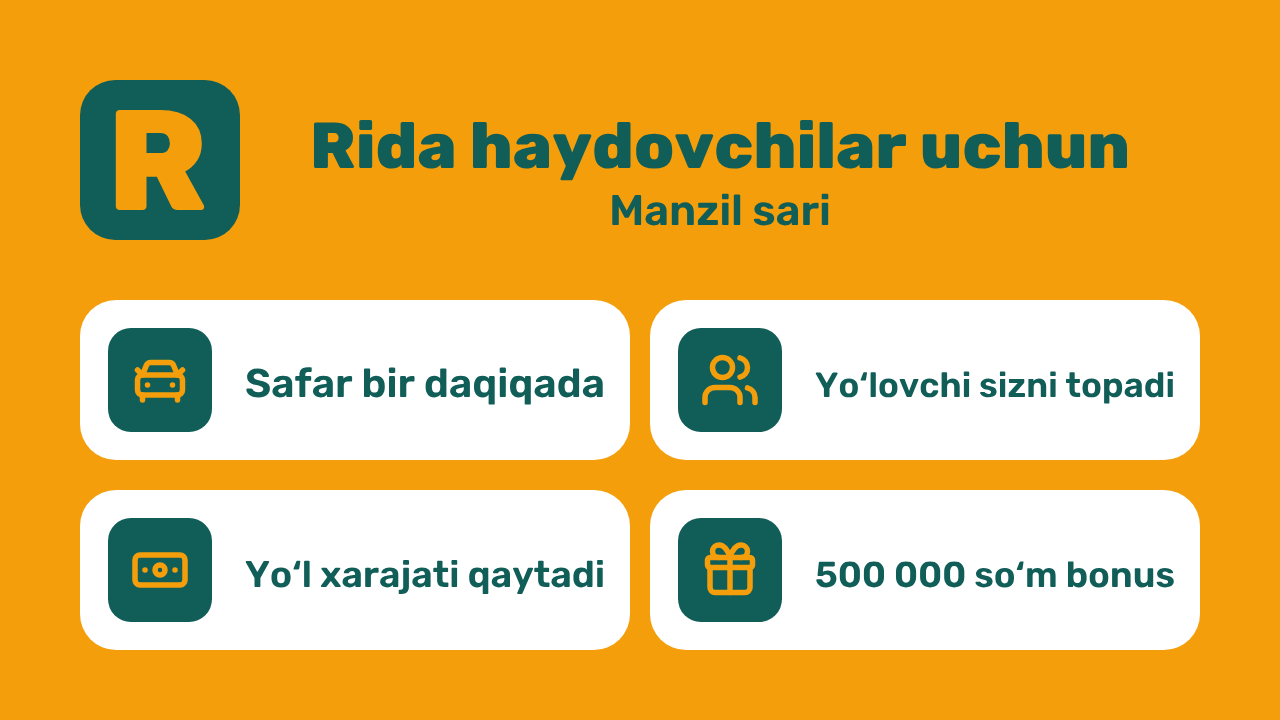
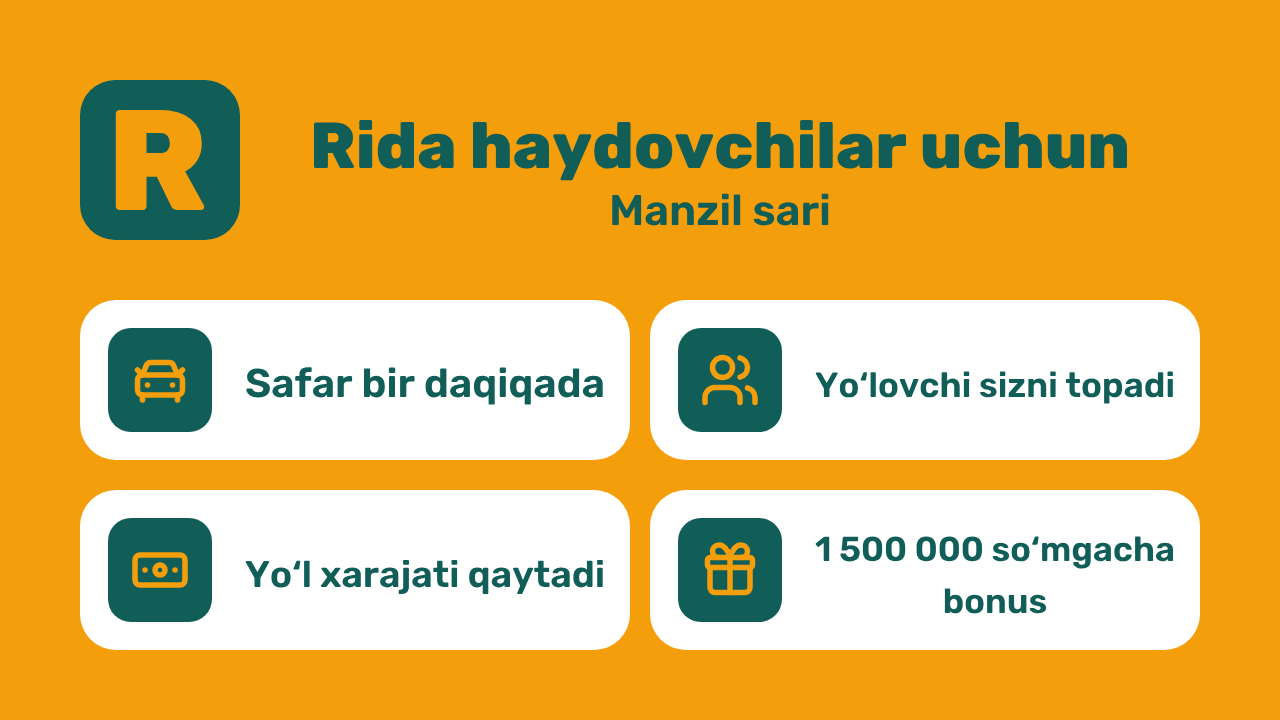
Приветствия ботов в каналах: пост попутчика и водителя в @rida1uz и всех каналах направлений (решение владельца 18.10.2026) (#278)
Бот каналов публикует приветствие попутчика и приветствие водителя: сначала @rida1uz, потом все 67 каналов направлений. Картинка и текст как после /start, кнопка «Ochish» в Mini App с меткой канала. Один раз, без звука, 12 постов за тик Cron; отказ 4xx повторяется через час; номер поста в channel_welcomes (миграция 0076). Бонус водителя «1 500 000 soʻmgacha» в /start, в посте и на картинке. Урок №321.

Claude-Session: https://claude.ai/code/session_017FSsNw3bjZgBbKY1ueaesh

Changed region(s): [[0.625, 0.7333, 0.9375, 0.8556]]

diff --git a/apps/backend/src/bots/channel-welcome.test.ts b/apps/backend/src/bots/channel-welcome.test.ts
@@ -1,0 +1,112 @@
+import { loadBrand } from '@platform/brands';
+import { botStartLink, channelVia, HOUR_MS } from '@platform/contracts';
+import { afterEach, describe, expect, it, vi } from 'vitest';
+import type { Bindings } from '../env';
+import { testD1 } from '../test-d1';
+import { postChannelWelcomes } from './channel-welcome';
+import { welcomeCaption, welcomePicture } from './start-reply';
+
+afterEach(() => vi.restoreAllMocks());
+
+const brand = loadBrand();
+const MAIN = `@${brand.mainChannel}`;
+const FIRST = brand.channels[0]?.chat ?? '';
+const ALL = 2 * (1 + brand.channels.length);
+const DAY = Date.UTC(2026, 9, 18, 6);
+
+type Post = {
+  chat_id: string;
+  photo: string;
+  caption: string;
+  disable_notification?: boolean;
+  reply_markup: { inline_keyboard: { text: string; url: string }[][] };
+};
+
+// Telegram that answers the chats of `answers` with their status, and 429 from the post number `busyAt`.
+function telegram(answers: Readonly<Record<string, number>> = {}, busyAt = Infinity) {
+  const posts: Post[] = [];
+  const fetch = async (_url: string, init?: RequestInit) => {
+    const post = JSON.parse(String(init?.body)) as Post;
+    posts.push(post);
+    const status = posts.length >= busyAt ? 429 : (answers[post.chat_id] ?? 200);
+    return Response.json({ ok: status === 200, result: { message_id: posts.length } }, { status });
+  };
+  return { posts, fetch, where: () => posts.map((post) => post.chat_id) };
+}
+
+const envWith = (values: object = {}) =>
+  ({ POSTER_BOT_TOKEN: 'c', CHANNEL_POSTS: 'on', DB: testD1(), ...values }) as unknown as Bindings;
+
+describe('the welcomes of the bots in the channels (owner, 18.10.2026)', () => {
+  it('posts both welcomes to the main channel first, then a few channels a tick, never twice', async () => {
+    const db = testD1();
+    const env = envWith({ DB: db });
+    const first = telegram();
+    await postChannelWelcomes(env, first.fetch, DAY);
+    const [passenger, driver] = first.posts;
+    expect(first.where().slice(0, 2)).toEqual([MAIN, MAIN]);
+    expect(passenger).toEqual({
+      chat_id: MAIN,
+      photo: welcomePicture(brand, 'passenger'),
+      caption: welcomeCaption(brand, 'passenger'),
+      reply_markup: {
+        inline_keyboard: [[{ text: 'Ochish', url: botStartLink(brand.bots.passenger, channelVia(MAIN)) }]],
+      },
+      // In a channel only the board of the day sounds (docs/122).
+      disable_notification: true,
+    });
+    expect(driver?.photo).toBe(welcomePicture(brand, 'driver'));
+    expect(driver?.reply_markup.inline_keyboard[0]?.[0]?.url).toBe(
+      botStartLink(brand.bots.driver, channelVia(MAIN)),
+    );
+    const kept = await db
+      .prepare('SELECT message_id FROM channel_welcomes WHERE chat = ? AND role = ?')
+      .bind(MAIN, 'driver')
+      .first<{ message_id: number }>();
+    expect(kept?.message_id).toBe(2);
+    const sent = [...first.where()];
+    for (let tick = 1; tick * first.posts.length < ALL; tick += 1) {
+      const next = telegram();
+      await postChannelWelcomes(env, next.fetch, DAY + tick);
+      sent.push(...next.where());
+    }
+    expect(sent).toHaveLength(ALL);
+    expect(new Set(sent)).toEqual(new Set([MAIN, ...brand.channels.map(({ chat }) => chat)]));
+    const after = telegram();
+    await postChannelWelcomes(env, after.fetch, DAY + 2 * HOUR_MS);
+    expect(after.posts).toEqual([]);
+  });
+
+  it('tries a refused channel an hour later, stops at 429, never posts again after a lost answer', async () => {
+    vi.spyOn(console, 'warn').mockImplementation(() => undefined);
+    const env = envWith();
+    await postChannelWelcomes(env, telegram({ [MAIN]: 400, [FIRST]: 500 }).fetch, DAY);
+    const soon = telegram();
+    await postChannelWelcomes(env, soon.fetch, DAY + 1);
+    expect(soon.where()).not.toContain(MAIN);
+    const busy = telegram({}, 1);
+    await postChannelWelcomes(env, busy.fetch, DAY + HOUR_MS + 1);
+    expect(busy.where()).toEqual([MAIN]);
+    const later = telegram();
+    await postChannelWelcomes(env, later.fetch, DAY + 2 * HOUR_MS + 2);
+    expect(later.where().slice(0, 2)).toEqual([MAIN, MAIN]);
+    expect([...soon.where(), ...busy.where(), ...later.where()]).not.toContain(FIRST);
+  });
+
+  it('posts each welcome once when two ticks run at once', async () => {
+    const env = envWith();
+    const [one, two] = [telegram(), telegram()];
+    await Promise.all([postChannelWelcomes(env, one.fetch, DAY), postChannelWelcomes(env, two.fetch, DAY)]);
+    const sent = [...one.posts, ...two.posts].map((post) => `${post.chat_id} ${post.photo}`);
+    expect(sent).toHaveLength(12);
+    expect(new Set(sent).size).toBe(12);
+  });
+
+  it('waits for the switch of the posts and the token of the bot of the posts', async () => {
+    for (const values of [{ CHANNEL_POSTS: 'off' }, { POSTER_BOT_TOKEN: undefined }]) {
+      const quiet = telegram();
+      await postChannelWelcomes(envWith(values), quiet.fetch, DAY);
+      expect(quiet.posts).toEqual([]);
+    }
+  });
+});

diff --git a/apps/backend/src/bots/channel-welcome.ts b/apps/backend/src/bots/channel-welcome.ts
@@ -1,0 +1,87 @@
+import type { BrandConfig } from '@platform/brands';
+import { botStartLink, channelVia, HOUR_MS } from '@platform/contracts';
+import { createI18n, DEFAULT_LOCALE } from '@platform/i18n';
+import type { Bindings } from '../env';
+import { brandOf } from '../shared/brand/brand-of';
+import { askTelegram, sendFlags, type Fetch } from '../shared/telegram/telegram-api';
+import { welcomeCaption, welcomePicture } from './start-reply';
+
+const { t } = createI18n(DEFAULT_LOCALE);
+
+// The welcomes of the passenger and the driver bot in every channel of the brand, the main one first
+// (owner, 18.10.2026): the bot of the posts is an admin there already. The button opens the Mini App
+// of the bot with the mark of the channel, so «Statistika» shows who came from which channel.
+const ROLES = ['passenger', 'driver'] as const;
+type Role = (typeof ROLES)[number];
+// A few posts a tick: the Cron run shares its requests with the other jobs (docs/117).
+const PER_TICK = 12;
+// A channel that refused (the bot is not its admin yet) waits, so it does not hold the others.
+const RETRY_MS = HOUR_MS;
+const REFUSED = /_4\d\d$/u;
+const TOO_MANY = '_429';
+
+// Without sound: in a channel only the board of the day sounds (docs/122).
+const channelWelcome = (brand: BrandConfig, role: Role, chat: string) => ({
+  chat_id: chat,
+  photo: welcomePicture(brand, role),
+  caption: welcomeCaption(brand, role),
+  reply_markup: {
+    inline_keyboard: [[{ text: t('bot.open'), url: botStartLink(brand.bots[role], channelVia(chat)) }]],
+  },
+  ...sendFlags({ quiet: true }),
+});
+
+// Table channel_welcomes (migration 0076). A welcome counts as posted once taken, so neither two ticks
+// nor a lost answer of Telegram post it twice: a double in a channel is seen by all, a lost one by
+// none. Only a post Telegram refused (4xx) is given back, and taken again after RETRY_MS.
+const DONE = 'SELECT chat, role FROM channel_welcomes WHERE posted_at IS NOT NULL OR tried_at > ?';
+const TAKE = `INSERT INTO channel_welcomes (chat, role, tried_at, posted_at) VALUES (?1, ?2, ?3, ?3)
+  ON CONFLICT (chat, role) DO UPDATE SET tried_at = excluded.tried_at, posted_at = excluded.posted_at
+  WHERE posted_at IS NULL AND tried_at <= ?4`;
+const KEEP = 'UPDATE channel_welcomes SET message_id = ? WHERE chat = ? AND role = ?';
+const GIVE_BACK = 'UPDATE channel_welcomes SET posted_at = NULL WHERE chat = ? AND role = ?';
+
+// True when this tick took the welcome: a new one, or one refused RETRY_MS ago.
+async function take(db: D1Database, chat: string, role: Role, now: number): Promise<boolean> {
+  const { meta } = await db
+    .prepare(TAKE)
+    .bind(chat, role, now, now - RETRY_MS)
+    .run();
+  return meta.changes > 0;
+}
+
+const welcomesOf = (brand: BrandConfig) =>
+  [`@${brand.mainChannel}`, ...brand.channels.map(({ chat }) => chat)].flatMap((chat) =>
+    ROLES.map((role) => ({ chat, role })),
+  );
+
+// Each welcome goes once, while the channel posts are on (docs/33). A post the owner deleted stays
+// deleted.
+export async function postChannelWelcomes(env: Bindings, fetch: Fetch, now: number): Promise<void> {
+  const [db, token] = [env.DB, env.POSTER_BOT_TOKEN];
+  if (!db || !token || env.CHANNEL_POSTS !== 'on') return;
+  const brand = brandOf(env);
+  const { results } = await db
+    .prepare(DONE)
+    .bind(now - RETRY_MS)
+    .all<{ chat: string; role: Role }>();
+  const done = new Set(results.map(({ chat, role }) => `${chat} ${role}`));
+  const due = welcomesOf(brand).filter(({ chat, role }) => !done.has(`${chat} ${role}`));
+  for (const { chat, role } of due.slice(0, PER_TICK)) {
+    if (!(await take(db, chat, role, now))) continue;
+    try {
+      const welcome = channelWelcome(brand, role, chat);
+      const post = await askTelegram<{ message_id: number }>(fetch, token, 'sendPhoto', welcome);
+      await db
+        .prepare(KEEP)
+        .bind(post?.message_id ?? null, chat, role)
+        .run();
+    } catch (error) {
+      const message = String(error);
+      console.warn(JSON.stringify({ event: 'channel_welcome_failed', chat, role, message }));
+      if (!REFUSED.test(message)) continue;
+      await db.prepare(GIVE_BACK).bind(chat, role).run();
+      if (message.endsWith(TOO_MANY)) return;
+    }
+  }
+}

diff --git a/apps/backend/src/cron-reads.test.ts b/apps/backend/src/cron-reads.test.ts
@@ -9,7 +9,7 @@ const HOUR = 60 * 60 * 1000;
 // 00:05 UTC: the first tick of the daily hour runs every job but the looks of half past (docs/180).
 const NOW = Date.UTC(2026, 9, 5, 0, 5);
 const HALF_PAST = NOW + 30 * 60_000;
-const TICK_JOBS = 12;
+const TICK_JOBS = 13;
 const ago = (hours: number) => NOW - hours * HOUR;
 
 // One row for each job to work on, so that every read of every job runs (G56).
@@ -57,7 +57,7 @@ describe('the reads of the Cron', () => {
     await db.exec(SEED);
     const env = { ...testEnv, DB: db } as unknown as Bindings;
     const jobs = [...cronJobs(env, NOW), ...cronJobs(env, HALF_PAST).slice(TICK_JOBS)];
-    expect(jobs).toHaveLength(25);
+    expect(jobs).toHaveLength(26);
     expect(await runJobs(jobs)).toEqual([]);
     expect(fullScans(db)).toEqual([]);
   });
@@ -65,9 +65,9 @@ describe('the reads of the Cron', () => {
   it('runs the rare jobs once an hour and once a day', () => {
     const names = (at: number) => cronJobs({ ...testEnv } as unknown as Bindings, at).map(([name]) => name);
     expect(names(NOW + 15 * 60_000)).toHaveLength(TICK_JOBS);
-    expect(names(NOW + 5 * HOUR)).toEqual([...names(NOW + 15 * 60_000), ...names(NOW).slice(TICK_JOBS, 20)]);
+    expect(names(NOW + 5 * HOUR)).toEqual([...names(NOW + 15 * 60_000), ...names(NOW).slice(TICK_JOBS, 21)]);
     expect(names(HALF_PAST)).toEqual([...names(NOW + 15 * 60_000), 'keepTelegramLooks']);
-    expect(names(NOW).slice(20)).toEqual([
+    expect(names(NOW).slice(21)).toEqual([
       'grantMissedBonuses',
       'warnBonusEnd',
       'purgeSupport',
@@ -75,6 +75,6 @@ describe('the reads of the Cron', () => {
     ]);
     // The stand runs the Cron by hand at any minute: every job runs.
     const stand = { ...testEnv, CRON_TIERS: 'off' } as unknown as Bindings;
-    expect(cronJobs(stand, NOW + 15 * 60_000)).toHaveLength(25);
+    expect(cronJobs(stand, NOW + 15 * 60_000)).toHaveLength(26);
   });
 });

diff --git a/apps/backend/src/bots/start-reply.ts b/apps/backend/src/bots/start-reply.ts
@@ -35,20 +35,26 @@ const becomeDriver = (brand: BrandConfig) => ({
   url: `https://t.me/${brand.bots.driver}?start=${FROM_PASSENGER}`,
 });
 
-// The public bots greet with a picture: what Rida gives this person (G34, docs/95; passenger 03.10.2026).
-function welcome(brand: BrandConfig, role: 'passenger' | 'driver', chatId: number, payload: string) {
+// The words of a public bot's welcome: in its chat after /start and on its posts in the channels; the
+// bonus is every grant of the welcome promo together, «…gacha» (owner, 18.10.2026).
+export function welcomeCaption(brand: BrandConfig, role: 'passenger' | 'driver', payload = '') {
   const hello =
     role === 'driver' && payload === FROM_PASSENGER ? 'bot.driver.helloFromPassenger' : 'bot.hello';
   const about =
     role === 'driver'
-      ? t('bot.driver.welcome', { bonus: formatMoney(brand.promo.amount) })
+      ? t('bot.driver.welcome', { bonus: formatMoney(brand.promo.amount * brand.promo.grants) })
       : t('bot.passenger.welcome');
+  return [t(hello, { brand: brand.name }), about].join('\n\n');
+}
+
+// The public bots greet with a picture: what Rida gives this person (G34, docs/95; passenger 03.10.2026).
+function welcome(brand: BrandConfig, role: 'passenger' | 'driver', chatId: number, payload: string) {
   const rows = [[openButton(brand, role)], ...(role === 'passenger' ? [[becomeDriver(brand)]] : [])];
   return {
     method: 'sendPhoto',
     chat_id: chatId,
     photo: welcomePicture(brand, role),
-    caption: [t(hello, { brand: brand.name }), about].join('\n\n'),
+    caption: welcomeCaption(brand, role, payload),
     reply_markup: { inline_keyboard: rows },
   };
 }

diff --git a/apps/backend/src/cron.ts b/apps/backend/src/cron.ts
@@ -1,4 +1,5 @@
 import { setupBotsWhenChanged } from './bots/bot-setup-job';
+import { postChannelWelcomes } from './bots/channel-welcome';
 import type { Job } from './cron-jobs';
 import type { Bindings } from './env';
 import { closeDepartedPosts, sendChannelSummaries, showChannelBoards } from './module-events';
@@ -33,10 +34,12 @@ const LOOKS_MINUTE = 30;
 // forgot «Yoʻlga chiqdim» and departs the trip later, edits channel posts of trips that left and the
 // boards of the day, reminds the team of waiting driver applications and keeps the minutes of
 // «Navbat» fresh; tells the waiting people of opened directions and refreshes the cards of the list
-// on Monday, a few at a time; sets the bots up again when their tokens or texts changed (docs/15,
-// docs/35, docs/122, docs/181, G10, G34, G63, G68, G83).
+// on Monday, a few at a time; sets the bots up again when their tokens or texts changed; posts the
+// welcomes of the bots to the channels, a few at a time (docs/15, docs/35, docs/122, docs/176,
+// docs/181, G10, G34, G63, G68, G83).
 const everyTick = (env: Bindings, now: number): Job[] => [
   ['setupBots', () => setupBotsWhenChanged(env, (input, init) => fetch(input, init), now)],
+  ['postChannelWelcomes', () => postChannelWelcomes(env, (input, init) => fetch(input, init), now)],
   ['completeTrips', () => completeTrips(env, now)],
   ['expireRequests', () => expireRequests(env, now)],
   ['expireBookings', () => expireBookings(env, now)],

diff --git a/apps/backend/src/bots/webhook-routes.test.ts b/apps/backend/src/bots/webhook-routes.test.ts
@@ -6,7 +6,7 @@ import { botEnv, botSender, fakeTelegram } from './test-bot';
 import { publicIdOf } from '../test-people';
 
 const brand = loadBrand();
-const { formatMoney } = createI18n(DEFAULT_LOCALE);
+const bonus = createI18n(DEFAULT_LOCALE).formatMoney(brand.promo.amount * brand.promo.grants);
 type Reply = { text: string; reply_markup: { inline_keyboard: { web_app: { url: string } }[][] } };
 type PhotoReply = Reply & { photo: string; caption: string };
 type LinkReply = { text: string; reply_markup: { inline_keyboard: { url: string }[][] } };
@@ -103,7 +103,7 @@ describe('POST /telegram/:role', () => {
     expect(reply).toMatchObject({ method: 'sendPhoto', chat_id: 42 });
     expect(reply.photo).toBe(`https://${brand.domain}/bot/driver-welcome.png?v=${brand.welcomes.driver}`);
     expect(reply.caption.startsWith(`Assalomu alaykum! ${brand.name}: `)).toBe(true);
-    expect(reply.caption).toContain(`Boshlash uchun ${formatMoney(brand.promo.amount)} bonus.`);
+    expect(reply.caption).toContain(`Boshlash uchun ${bonus}gacha bonus.`);
     expect(reply.reply_markup.inline_keyboard).toEqual([
       [{ text: 'Ochish', web_app: { url: `https://driver.${brand.domain}` } }],
     ]);

diff --git a/docs/96-g34-texts.md b/docs/96-g34-texts.md
@@ -6,7 +6,7 @@
 
 | № | Где | Текст |
 |---|---|---|
-| T1 | Start, подпись к картинке | Assalomu alaykum! {brand}: yoʻli bir odamlar bir mashinada boradi va yoʻl xarajatini boʻlishadi. Bu taksi emas.\n\nHaydovchi sifatida siz:\n🚗 Safarni bir daqiqada eʼlon qilasiz.\n👥 Yoʻlovchilar sizni oʻzi topadi, pitakda kutish shart emas.\n💰 Yoʻl xarajatingiz qaytadi.\n🎁 Boshlash uchun {bonus} bonus.\n\nRoʻyxatdan oʻtish uchun «Ochish» tugmasini bosing. |
+| T1 | Start, подпись к картинке | Assalomu alaykum! {brand}: yoʻli bir odamlar bir mashinada boradi va yoʻl xarajatini boʻlishadi. Bu taksi emas.\n\nHaydovchi sifatida siz:\n🚗 Safarni bir daqiqada eʼlon qilasiz.\n👥 Yoʻlovchilar sizni oʻzi topadi, pitakda kutish shart emas.\n💰 Yoʻl xarajatingiz qaytadi.\n🎁 Boshlash uchun {bonus}gacha bonus.\n\nRoʻyxatdan oʻtish uchun «Ochish» tugmasini bosing. |
 | T2 | Start из бота попутчика, первая строка вместо «Assalomu alaykum!…» | Assalomu alaykum! Endi {brand} bilan haydovchi sifatida ham safar qiling. |
 | T3 | Любой другой текст | Bu bot xabarlarga javob bermaydi. Savolingiz boʻlsa, @{supportBot} ga yozing. Ilovani ochish uchun «Ochish» tugmasini bosing. |
 | T4 | Кнопка рядом с «Ochish» | Yordam |
@@ -17,7 +17,7 @@
 
 | № | Где | Текст |
 |---|---|---|
-| T7 | Приветствие водителя, польза 2 | Boshlash uchun {bonus} bonus. |
+| T7 | Приветствие водителя, польза 2 | Boshlash uchun {bonus}gacha bonus. С 18.10.2026 `{bonus}` это все начисления акции вместе (1 500 000 soʻm), «да» владельца; так же в посте водителя в каналах (`176`) и на картинке приветствия, в две строки |
 | T8 | Приветствие водителя, польза 3 | Yoʻlovchilar sizni oʻzi topadi. |
 | T9 | Приветствие, строка согласия | «Davom etish» tugmasini bosib, siz ommaviy oferta, maxfiylik siyosati va shaxsga doir maʼlumotlarni qayta ishlash shartlariga rozilik bildirasiz. |
 | T10 | Второй экран, заголовок | Siz haqingizda |

diff --git a/docs/190-lessons-learned-17.md b/docs/190-lessons-learned-17.md
@@ -92,3 +92,10 @@
 - **Причина:** перед началом цели я не проверил сообщения других сессий, открытые PR и ветки `goal/gNN` с той же целью.
 - **Следствие:** около полутора часов двойной работы и лишние токены. В прод попал один PR, людей не задело.
 - **Урок:** перед началом цели: прочитать уведомления, проверить открытые PR и ветки `goal/gNN-*` в origin. Нашёл чужую работу по той же цели: сразу написать той сессии и не начинать, пока не договорились.
+
+### №321. Совет «опубликуйте руками» вместо поста от ботов
+
+- **Что случилось:** 18.10.2026 владелец спросил, смогу ли я сделать пост от ботов в `@rida1uz`. Я посоветовал опубликовать пост руками, потом начал код, где боты попутчика и водителя становятся админами канала. Владелец дважды объяснял цель (звёзды на постах для рекламы) и сам напомнил, что бот каналов уже админ во всех 68 каналах.
+- **Причина:** я выбрал способ, не спросив цель, и не сверился с тем, что в Rida уже есть: бот каналов с правом публиковать в каждом канале.
+- **Следствие:** два лишних круга с владельцем в день запуска; первый вариант кода выброшен.
+- **Урок:** на просьбу «сделай через X» сначала одной строкой узнаю цель и ищу, что в Rida уже это умеет (боты, их права, каналы). Совет «сделайте руками» не даю, если теряется то, что даёт код (кнопки, метки).

diff --git a/docs/176-direction-channels.md b/docs/176-direction-channels.md
@@ -143,3 +143,4 @@
 | 7 | Новые тексты (`177`) | Да; профиль бота водителя как есть (вопрос 6) |
 | 8 | Пост поездки | Как на макете `g68/5`; в каналы обоих концов; хабы оставить |
 | 9 | Секрет вебхука для `setup-bots` (13.10) | Claude сам делает новый `TELEGRAM_WEBHOOK_SECRET`, кладёт в Worker и сразу запускает `setup-bots` для 5 ботов. Боты молчат несколько секунд, Telegram шлёт повторно. В обеих средах при запуске прода (G81) и при каждой новой настройке ботов |
+| 10 | Приветствие ботов в каналах (18.10) | Да: бот каналов публикует приветствие попутчика и приветствие водителя (картинка и текст как после /start, бонус «1 500 000 soʻmgacha», кнопка «Ochish» в Mini App с меткой канала) в `@rida1uz` и во всех каналах направлений, один раз, без звука, пока посты включены. Cron, 12 постов за шаг, главный канал первым. Пост считается сделанным сразу: потерянный ответ Telegram не даёт дубля; только отказ (4xx) повторяется через час. Номер поста в `channel_welcomes` (миграция 0076, `bots/channel-welcome.ts`). Звёзды на эти посты: `184` |

diff --git a/docs/184-ad-links.md b/docs/184-ad-links.md
@@ -88,3 +88,14 @@
 | Ссылки делают и модераторы; выбор: бот попутчика, бот водителя, канал | Просьба владельца 17.10.2026 |
 | Тексты ссылок в бот поездок (`goals/G84`) | Согласованы владельцем 17.10.2026 |
 | Тексты (`182`) | Согласованы и проверены носителем 15.10.2026 |
+
+## Звёзды и Telegram Ads (18.10.2026)
+
+| Факт (документация Telegram, `core.telegram.org/api/stars`) | Что значит для Rida |
+|---|---|
+| Звёзды (платные реакции ⭐) на посте идут на баланс **канала**, кто бы ни опубликовал пост; владелец получает 100 % | Пост от бота звёзд боту не даёт |
+| Звёзды канала идут на рекламу Telegram Ads только **этого же канала** | Звёзды собираем на постах `@rida1uz`: один баланс, реклама главного канала |
+| Платные реакции включает владелец канала в настройках реакций | Шаг владельца |
+
+Путь человека: реклама `@rida1uz` → канал → приветствие бота с кнопкой «Ochish» → Mini App (решение 10 в `176`). Метка канала в кнопке показывает в «Statistika», сколько людей пришло.
+
